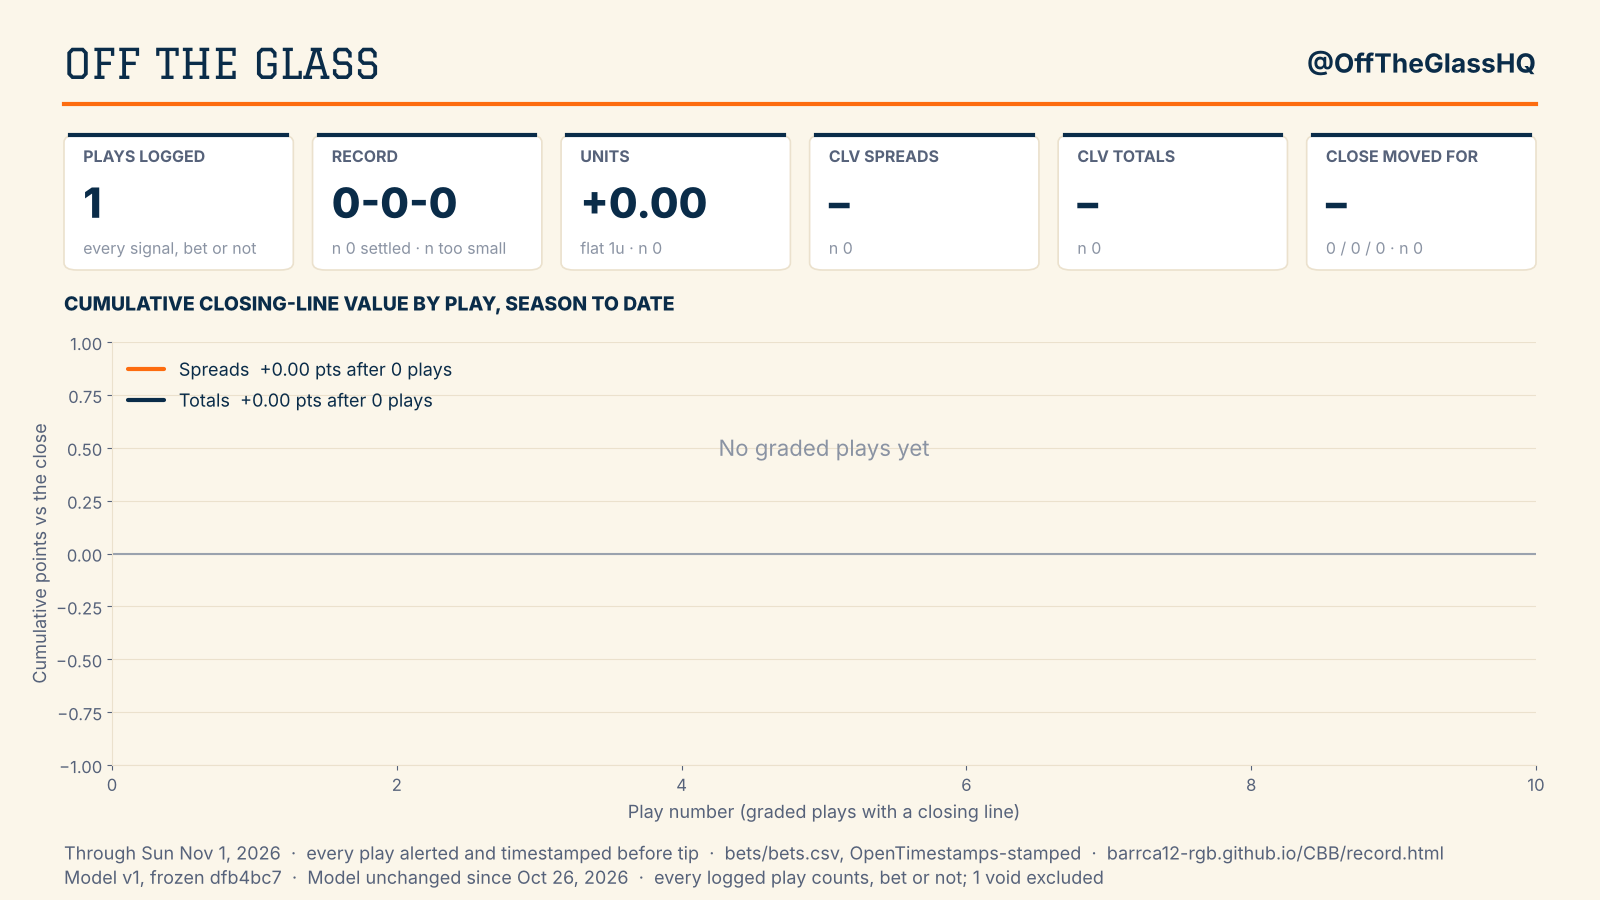
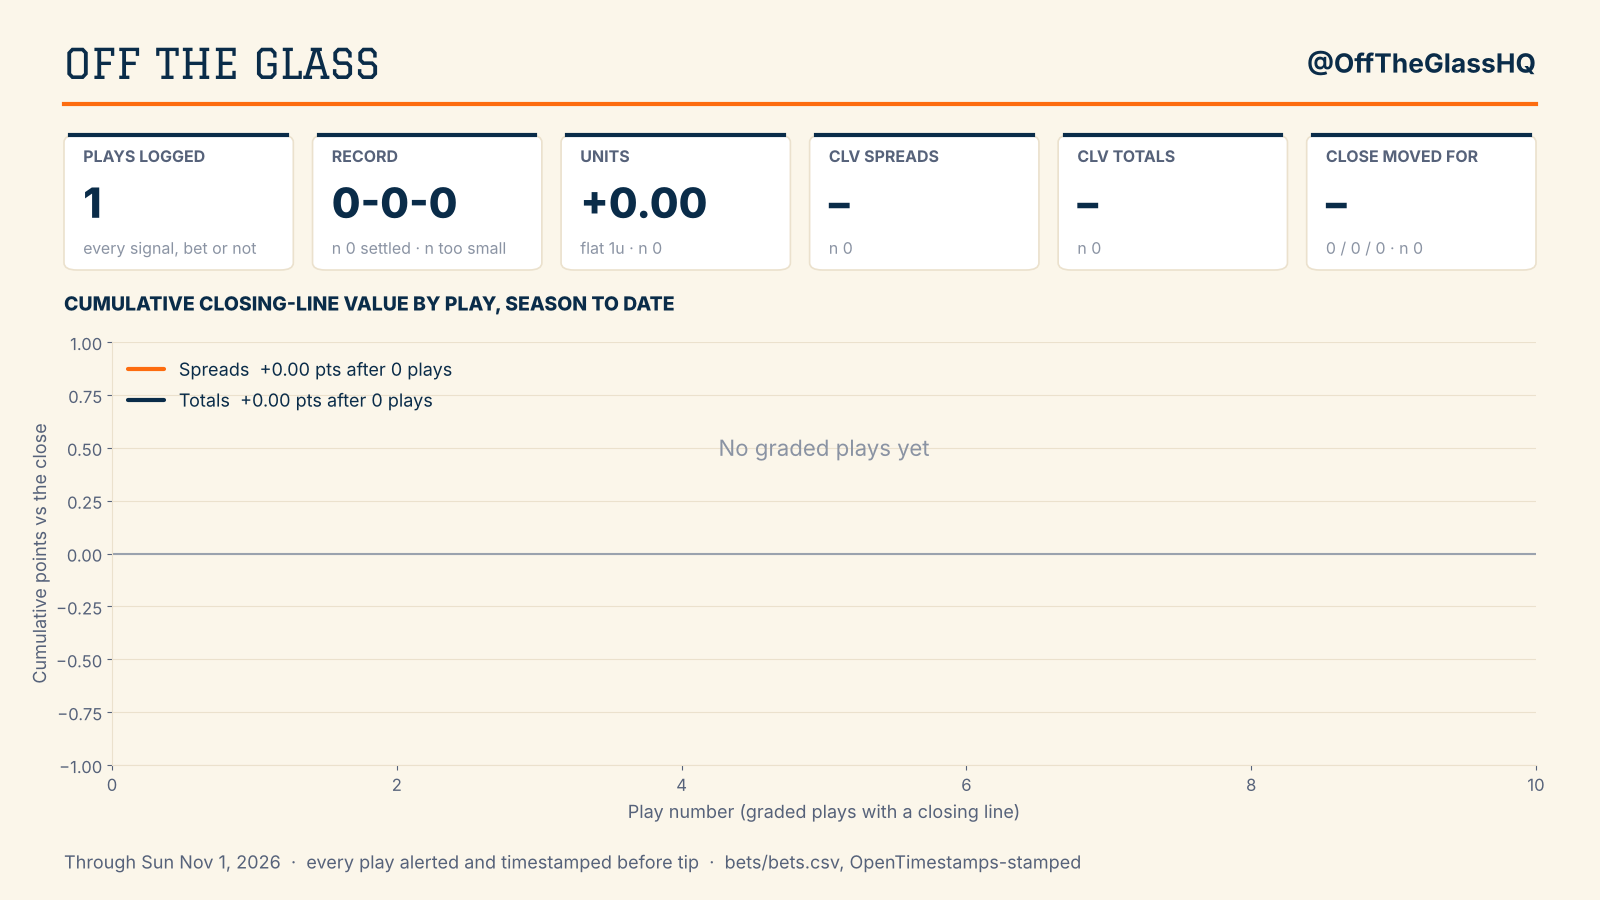
Weekly chart: footer is the date line only (model tag and site link removed, Chad)
Claude-Session: https://claude.ai/code/session_016eLKwwrXxH75XXcjrLZYYt

Changed region(s): [[0.0312, 0.9333, 0.9062, 0.9956]]

diff --git a/cbb/record_chart.py b/cbb/record_chart.py
@@ -104,11 +104,8 @@ def version() -> tuple[str, str]:
 
 def _footer(fig, st: dict) -> None:
     t = st["through"]
-    v, u = version()
-    fig.text(0.04, 0.045, f"Through {t:%a %b} {t.day}, {t:%Y}  ·  every play alerted and timestamped before tip  ·  "
-             f"bets/bets.csv, OpenTimestamps-stamped  ·  {SITE}", fontsize=13, color=MUTED, family="Inter")
-    fig.text(0.04, 0.018, f"{v}  ·  {u}  ·  every logged play counts, bet or not; {st['voids']} void"
-             f"{'' if st['voids'] == 1 else 's'} excluded", fontsize=13, color=MUTED, family="Inter")
+    fig.text(0.04, 0.035, f"Through {t:%a %b} {t.day}, {t:%Y}  ·  every play alerted and timestamped before tip  ·  "
+             f"bets/bets.csv, OpenTimestamps-stamped", fontsize=13, color=MUTED, family="Inter")
 
 
 def _title(fig, text: str, y: float) -> None:
